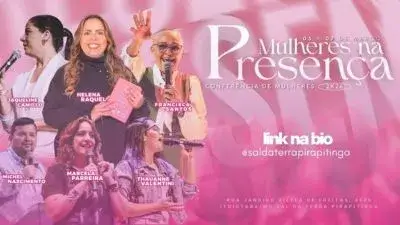
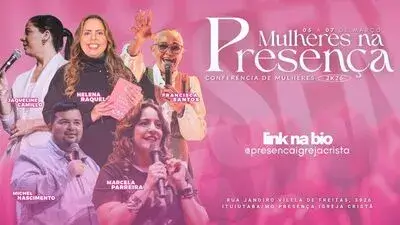
update the link and image of conf mulheres

diff --git a/index.html b/index.html
@@ -527,7 +527,7 @@
         <section class="events-stack">
             
             <!-- 1. Mulheres -->
-            <a href="https://vendomeuingresso.com/evento/?id=5201" target="_blank" class="event-card">
+            <a href="https://www.sympla.com.br/evento/conferencia-mulheres-na-presenca/3304490" target="_blank" class="event-card">
                 <div class="card-img-wrapper">
                     <img src="images/mulheres-400.webp" srcset="images/mulheres-400.webp 400w, images/mulheres-800.webp 800w" fetchpriority="high" decoding="async" width="362" height="220" sizes="(max-width: 450px) 90vw, 400px" alt="banner Conferência de Mulheres igreja em ituiutaba">
                 </div>
